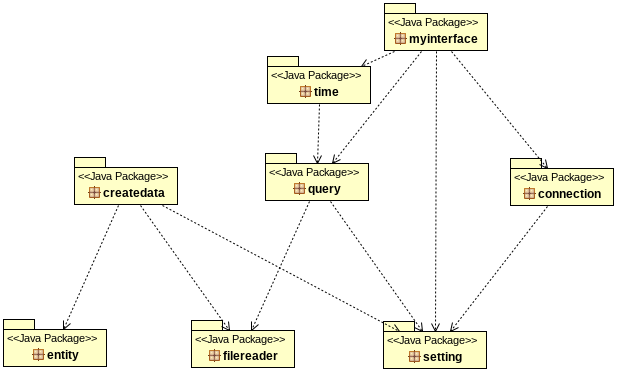
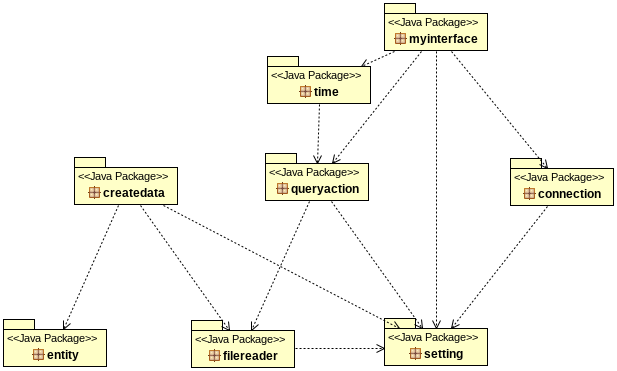
.

diff --git a/src/main/java/myinterface/MainForm.java b/src/main/java/myinterface/MainForm.java
@@ -13,7 +13,7 @@ import javax.swing.JOptionPane;
 import com.franz.agraph.repository.AGRepositoryConnection;
 
 import connection.ServerConnection;
-import query.QueryAction;
+import queryaction.QueryAction;
 import setting.Config;
 import setting.Query;
 import time.CalTime;

diff --git a/src/main/java/time/CalTime.java b/src/main/java/time/CalTime.java
@@ -4,7 +4,7 @@ import org.eclipse.rdf4j.query.TupleQueryResult;
 
 import com.franz.agraph.repository.AGRepositoryConnection;
 
-import query.QueryAction;
+import queryaction.QueryAction;
 
 public class CalTime {
 	private QueryAction queryAction = new QueryAction();

diff --git a/src/main/java/queryaction/QueryAction.java b/src/main/java/queryaction/QueryAction.java
@@ -1,4 +1,4 @@
-package query;
+package queryaction;
 
 import java.util.ArrayList;
 
